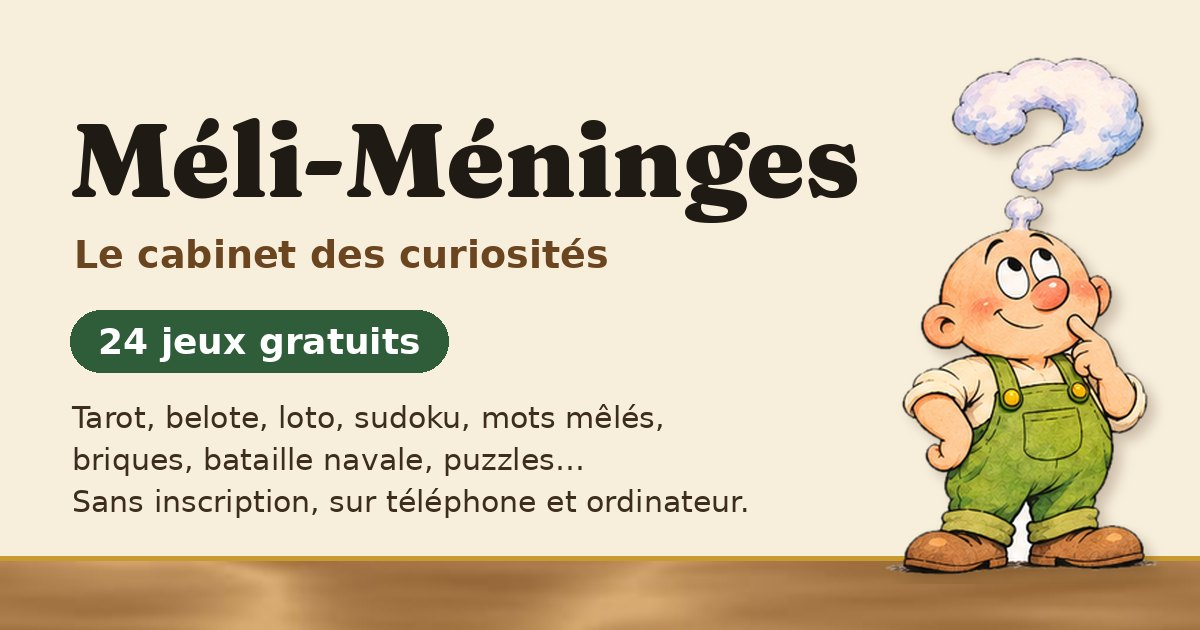
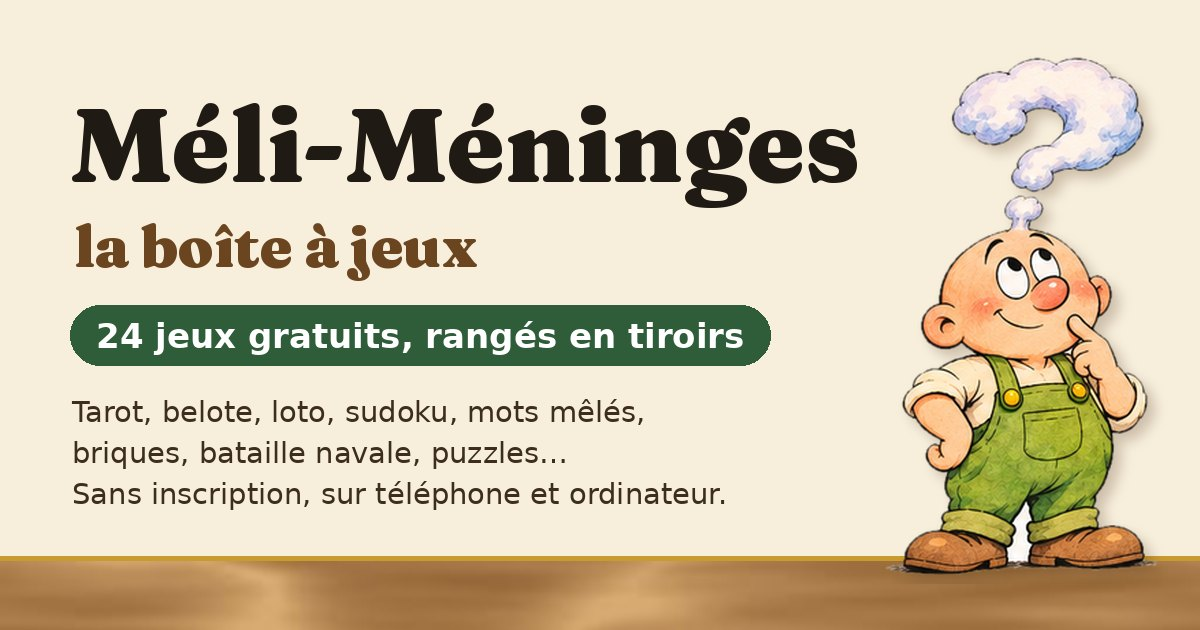
Nouvelle accroche : « Méli-Méninges, la boîte à jeux » (accueil, Google, partage, application, vignette)
Claude-Session: https://claude.ai/code/session_01LcZiMBH8gtQqddTCQ7UFZn

diff --git a/index.html b/index.html
@@ -3,20 +3,20 @@
 <head>
 <meta charset="utf-8">
 <meta name="viewport" content="width=device-width, initial-scale=1">
-<meta name="description" content="Tarot, belote, loto, sudoku, mots mêlés, briques, bataille navale, puzzles en photos, jeux sur la France… 24 jeux gratuits, sans inscription, faciles à lire, sur téléphone, tablette et ordinateur.">
+<meta name="description" content="Méli-Méninges, la boîte à jeux : une boîte à tiroirs remplie de 24 jeux gratuits. Tarot, belote, loto, sudoku, mots mêlés, briques, bataille navale, puzzles en photos, jeux sur la France… Sans inscription, faciles à lire, sur téléphone, tablette et ordinateur.">
 <link rel="canonical" href="https://meli-meninges.fr/">
 <meta property="og:type" content="website">
 <meta property="og:site_name" content="Méli-Méninges">
 <meta property="og:locale" content="fr_FR">
-<meta property="og:title" content="Méli-Méninges – 24 jeux gratuits pour faire travailler les méninges">
-<meta property="og:description" content="Tarot, belote, loto, sudoku, mots mêlés, briques, bataille navale, puzzles en photos, jeux sur la France… 24 jeux gratuits, sans inscription, faciles à lire, sur téléphone, tablette et ordinateur.">
+<meta property="og:title" content="Méli-Méninges, la boîte à jeux – 24 jeux gratuits">
+<meta property="og:description" content="Méli-Méninges, la boîte à jeux : une boîte à tiroirs remplie de 24 jeux gratuits. Tarot, belote, loto, sudoku, mots mêlés, briques, bataille navale, puzzles en photos, jeux sur la France… Sans inscription, faciles à lire, sur téléphone, tablette et ordinateur.">
 <meta property="og:url" content="https://meli-meninges.fr/">
 <meta property="og:image" content="https://meli-meninges.fr/partage.jpg">
 <meta property="og:image:width" content="1200">
 <meta property="og:image:height" content="630">
-<meta property="og:image:alt" content="Méli-Méninges, le cabinet des curiosités : 24 jeux gratuits, avec Monsieur Méninge">
+<meta property="og:image:alt" content="Méli-Méninges, la boîte à jeux : 24 jeux gratuits rangés dans des tiroirs, avec Monsieur Méninge">
 <meta name="twitter:card" content="summary_large_image">
-<title>Méli-Méninges – 24 jeux gratuits pour faire travailler les méninges</title>
+<title>Méli-Méninges, la boîte à jeux – 24 jeux gratuits pour faire travailler les méninges</title>
 <link rel="icon" type="image/png" sizes="32x32" href="logo/mm-32.png">
 <link rel="icon" type="image/png" sizes="192x192" href="logo/mm-192.png">
 <link rel="apple-touch-icon" href="logo/mm-180.png">
@@ -1041,12 +1041,12 @@ html.game-open h2.huge { font-size:clamp(22px,5.5vw,30px) !important; margin:0 0
     <header class="fHead">
       <div class="fTitle">
         <h1>Méli-Méninges</h1>
-        <p>Le cabinet des curiosités</p>
+        <p>La boîte à jeux</p>
         <span class="fCount" id="fCount"></span>
       </div>
       <img class="fMascot" src="mascotte/question.png" alt="Monsieur Méninge se gratte la tête">
     </header>
-    <section class="meuble" aria-label="Le cabinet des jeux">
+    <section class="meuble" aria-label="La boîte à jeux">
       <div id="cabinetDrawers"></div>
     </section>
     <p class="cabinetNote" id="cabinetNote">Touchez un tiroir pour l’ouvrir.</p>
@@ -2422,7 +2422,7 @@ function renderDrawers() {
     $('cabinetNote').textContent = 'Choisissez un jeu. Le cœur l’ajoute à « Mes jeux préférés ».';
   }
 }
-$('fCount').textContent = CABINET.reduce((n, d) => n + nbJeux(d), 0) + ' jeux dans un seul meuble';
+$('fCount').textContent = CABINET.reduce((n, d) => n + nbJeux(d), 0) + ' jeux dans une seule boîte';
 $('cabinetDrawers').addEventListener('click', e => {
   const f = e.target.closest('button[data-fav]');
   if (f) {
@@ -2575,8 +2575,8 @@ renderHome();
 (function(){
   const url = new URL('./', location.href).href.replace(/index\.html$/, '');
   const MSG = {
-    decouvrir: { t: 'Faire découvrir le jeu', m: 'J’ai découvert Méli-Méninges, un site de jeux gratuit et sans inscription : belote, loto, pendu, dames, puzzles, départements… Essaie, c’est super ! 👉 ' },
-    inviter:   { t: 'Inviter un ami à jouer', m: 'Viens jouer avec moi à Méli-Méninges ! Une partie de loto, de belote, de dames ou de pendu ? C’est gratuit et sans inscription 👉 ' }
+    decouvrir: { t: 'Faire découvrir le jeu', m: 'J’ai découvert Méli-Méninges, la boîte à jeux : des tiroirs pleins de jeux gratuits et sans inscription : belote, loto, pendu, dames, puzzles, départements… Essaie, c’est super ! 👉 ' },
+    inviter:   { t: 'Inviter un ami à jouer', m: 'Viens jouer avec moi dans la boîte à jeux de Méli-Méninges ! Une partie de loto, de belote, de dames ou de pendu ? C’est gratuit et sans inscription 👉 ' }
   };
   const $ = id => document.getElementById(id);
   const ov = $('shareOv');
@@ -2599,7 +2599,7 @@ renderHome();
   document.querySelectorAll('.shareBtn[data-share]').forEach(b => b.addEventListener('click', async () => {
     const kind = b.dataset.share, k = MSG[kind];
     if (navigator.share && matchMedia('(pointer:coarse)').matches) {
-      try { await navigator.share({ title: 'Méli-Méninges', text: k.m.replace(/ 👉 $/, ''), url }); return; }
+      try { await navigator.share({ title: 'Méli-Méninges, la boîte à jeux', text: k.m.replace(/ 👉 $/, ''), url }); return; }
       catch (e) { if (e && e.name === 'AbortError') return; }
     }
     openBox(kind);

diff --git a/celebres.html b/celebres.html
@@ -15,7 +15,7 @@
 <meta property="og:image" content="https://meli-meninges.fr/partage.jpg">
 <meta property="og:image:width" content="1200">
 <meta property="og:image:height" content="630">
-<meta property="og:image:alt" content="Méli-Méninges, le cabinet des curiosités : 24 jeux gratuits, avec Monsieur Méninge">
+<meta property="og:image:alt" content="Méli-Méninges, la boîte à jeux : 24 jeux gratuits rangés dans des tiroirs, avec Monsieur Méninge">
 <meta name="twitter:card" content="summary_large_image">
 <title>Qui est où ? Monuments et célébrités de France – Méli-Méninges</title>
 <script>if(window!==window.parent)document.documentElement.classList.add("emb")</script>

diff --git a/departements.html b/departements.html
@@ -15,7 +15,7 @@
 <meta property="og:image" content="https://meli-meninges.fr/partage.jpg">
 <meta property="og:image:width" content="1200">
 <meta property="og:image:height" content="630">
-<meta property="og:image:alt" content="Méli-Méninges, le cabinet des curiosités : 24 jeux gratuits, avec Monsieur Méninge">
+<meta property="og:image:alt" content="Méli-Méninges, la boîte à jeux : 24 jeux gratuits rangés dans des tiroirs, avec Monsieur Méninge">
 <meta name="twitter:card" content="summary_large_image">
 <title>Jeu des départements français – Méli-Méninges</title>
 <script>if(window!==window.parent)document.documentElement.classList.add("emb")</script>

diff --git a/bataille.html b/bataille.html
@@ -14,7 +14,7 @@
 <meta property="og:image" content="https://meli-meninges.fr/partage.jpg">
 <meta property="og:image:width" content="1200">
 <meta property="og:image:height" content="630">
-<meta property="og:image:alt" content="Méli-Méninges, le cabinet des curiosités : 24 jeux gratuits, avec Monsieur Méninge">
+<meta property="og:image:alt" content="Méli-Méninges, la boîte à jeux : 24 jeux gratuits rangés dans des tiroirs, avec Monsieur Méninge">
 <meta name="twitter:card" content="summary_large_image">
 <title>Bataille navale gratuite contre l’ordinateur ou à deux – Méli-Méninges</title>
 <link rel="preconnect" href="https://fonts.googleapis.com">

diff --git a/pendu.html b/pendu.html
@@ -14,7 +14,7 @@
 <meta property="og:image" content="https://meli-meninges.fr/partage.jpg">
 <meta property="og:image:width" content="1200">
 <meta property="og:image:height" content="630">
-<meta property="og:image:alt" content="Méli-Méninges, le cabinet des curiosités : 24 jeux gratuits, avec Monsieur Méninge">
+<meta property="og:image:alt" content="Méli-Méninges, la boîte à jeux : 24 jeux gratuits rangés dans des tiroirs, avec Monsieur Méninge">
 <meta name="twitter:card" content="summary_large_image">
 <title>Le Pendu de culture générale, de 1 à 4 joueurs – Méli-Méninges</title>
 <link rel="preconnect" href="https://fonts.googleapis.com">

diff --git a/loto.html b/loto.html
@@ -14,7 +14,7 @@
 <meta property="og:image" content="https://meli-meninges.fr/partage.jpg">
 <meta property="og:image:width" content="1200">
 <meta property="og:image:height" content="630">
-<meta property="og:image:alt" content="Méli-Méninges, le cabinet des curiosités : 24 jeux gratuits, avec Monsieur Méninge">
+<meta property="og:image:alt" content="Méli-Méninges, la boîte à jeux : 24 jeux gratuits rangés dans des tiroirs, avec Monsieur Méninge">
 <meta name="twitter:card" content="summary_large_image">
 <title>Grand loto en ligne gratuit, de 2 à 30 joueurs – Méli-Méninges</title>
 <link rel="preconnect" href="https://fonts.googleapis.com">

diff --git a/dames.html b/dames.html
@@ -14,7 +14,7 @@
 <meta property="og:image" content="https://meli-meninges.fr/partage.jpg">
 <meta property="og:image:width" content="1200">
 <meta property="og:image:height" content="630">
-<meta property="og:image:alt" content="Méli-Méninges, le cabinet des curiosités : 24 jeux gratuits, avec Monsieur Méninge">
+<meta property="og:image:alt" content="Méli-Méninges, la boîte à jeux : 24 jeux gratuits rangés dans des tiroirs, avec Monsieur Méninge">
 <meta name="twitter:card" content="summary_large_image">
 <title>Jeu de dames gratuit contre l’ordinateur – Méli-Méninges</title>
 <link rel="preconnect" href="https://fonts.googleapis.com">

diff --git a/cave.html b/cave.html
@@ -14,7 +14,7 @@
 <meta property="og:image" content="https://meli-meninges.fr/partage.jpg">
 <meta property="og:image:width" content="1200">
 <meta property="og:image:height" content="630">
-<meta property="og:image:alt" content="Méli-Méninges, le cabinet des curiosités : 24 jeux gratuits, avec Monsieur Méninge">
+<meta property="og:image:alt" content="Méli-Méninges, la boîte à jeux : 24 jeux gratuits rangés dans des tiroirs, avec Monsieur Méninge">
 <meta name="twitter:card" content="summary_large_image">
 <title>La Cave de France : cépages et vignobles – Méli-Méninges</title>
 <link rel="preconnect" href="https://fonts.googleapis.com">

diff --git a/reussites.html b/reussites.html
@@ -14,7 +14,7 @@
 <meta property="og:image" content="https://meli-meninges.fr/partage.jpg">
 <meta property="og:image:width" content="1200">
 <meta property="og:image:height" content="630">
-<meta property="og:image:alt" content="Méli-Méninges, le cabinet des curiosités : 24 jeux gratuits, avec Monsieur Méninge">
+<meta property="og:image:alt" content="Méli-Méninges, la boîte à jeux : 24 jeux gratuits rangés dans des tiroirs, avec Monsieur Méninge">
 <meta name="twitter:card" content="summary_large_image">
 <title>Réussites et patiences gratuites – Méli-Méninges</title>
 <link rel="preconnect" href="https://fonts.googleapis.com">

diff --git a/belote.html b/belote.html
@@ -14,7 +14,7 @@
 <meta property="og:image" content="https://meli-meninges.fr/partage.jpg">
 <meta property="og:image:width" content="1200">
 <meta property="og:image:height" content="630">
-<meta property="og:image:alt" content="Méli-Méninges, le cabinet des curiosités : 24 jeux gratuits, avec Monsieur Méninge">
+<meta property="og:image:alt" content="Méli-Méninges, la boîte à jeux : 24 jeux gratuits rangés dans des tiroirs, avec Monsieur Méninge">
 <meta name="twitter:card" content="summary_large_image">
 <title>Belote gratuite en ligne contre l’ordinateur – Méli-Méninges</title>
 <link rel="icon" href="logo/mm-32.png">

diff --git a/tarot.html b/tarot.html
@@ -14,7 +14,7 @@
 <meta property="og:image" content="https://meli-meninges.fr/partage.jpg">
 <meta property="og:image:width" content="1200">
 <meta property="og:image:height" content="630">
-<meta property="og:image:alt" content="Méli-Méninges, le cabinet des curiosités : 24 jeux gratuits, avec Monsieur Méninge">
+<meta property="og:image:alt" content="Méli-Méninges, la boîte à jeux : 24 jeux gratuits rangés dans des tiroirs, avec Monsieur Méninge">
 <meta name="twitter:card" content="summary_large_image">
 <title>Tarot gratuit en ligne contre l’ordinateur – Méli-Méninges</title>
 <link rel="icon" href="logo/mm-32.png">

diff --git a/animaux.html b/animaux.html
@@ -15,7 +15,7 @@
 <meta property="og:image" content="https://meli-meninges.fr/partage.jpg">
 <meta property="og:image:width" content="1200">
 <meta property="og:image:height" content="630">
-<meta property="og:image:alt" content="Méli-Méninges, le cabinet des curiosités : 24 jeux gratuits, avec Monsieur Méninge">
+<meta property="og:image:alt" content="Méli-Méninges, la boîte à jeux : 24 jeux gratuits rangés dans des tiroirs, avec Monsieur Méninge">
 <meta name="twitter:card" content="summary_large_image">
 <title>Les mots en animaux – Méli-Méninges</title>
 <link rel="stylesheet" href="jeu-alphabet.css">
